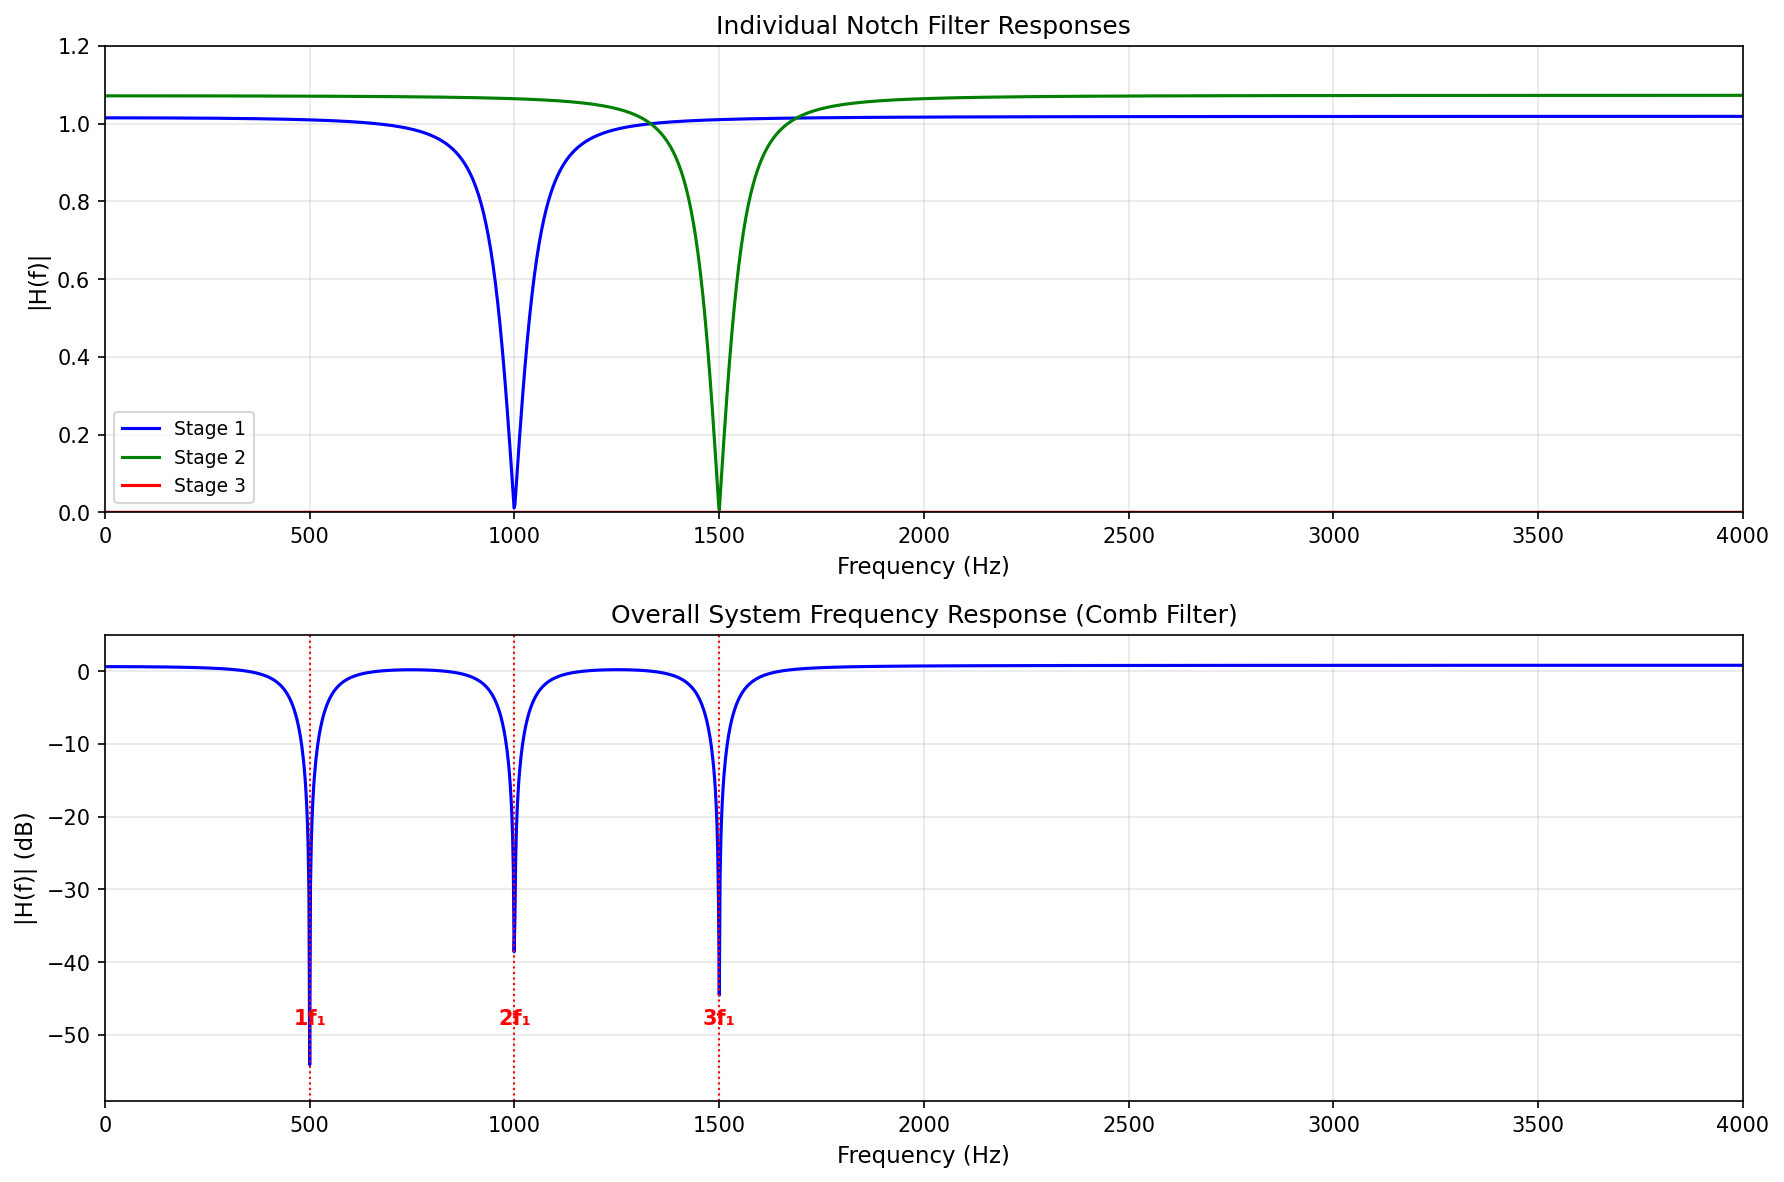
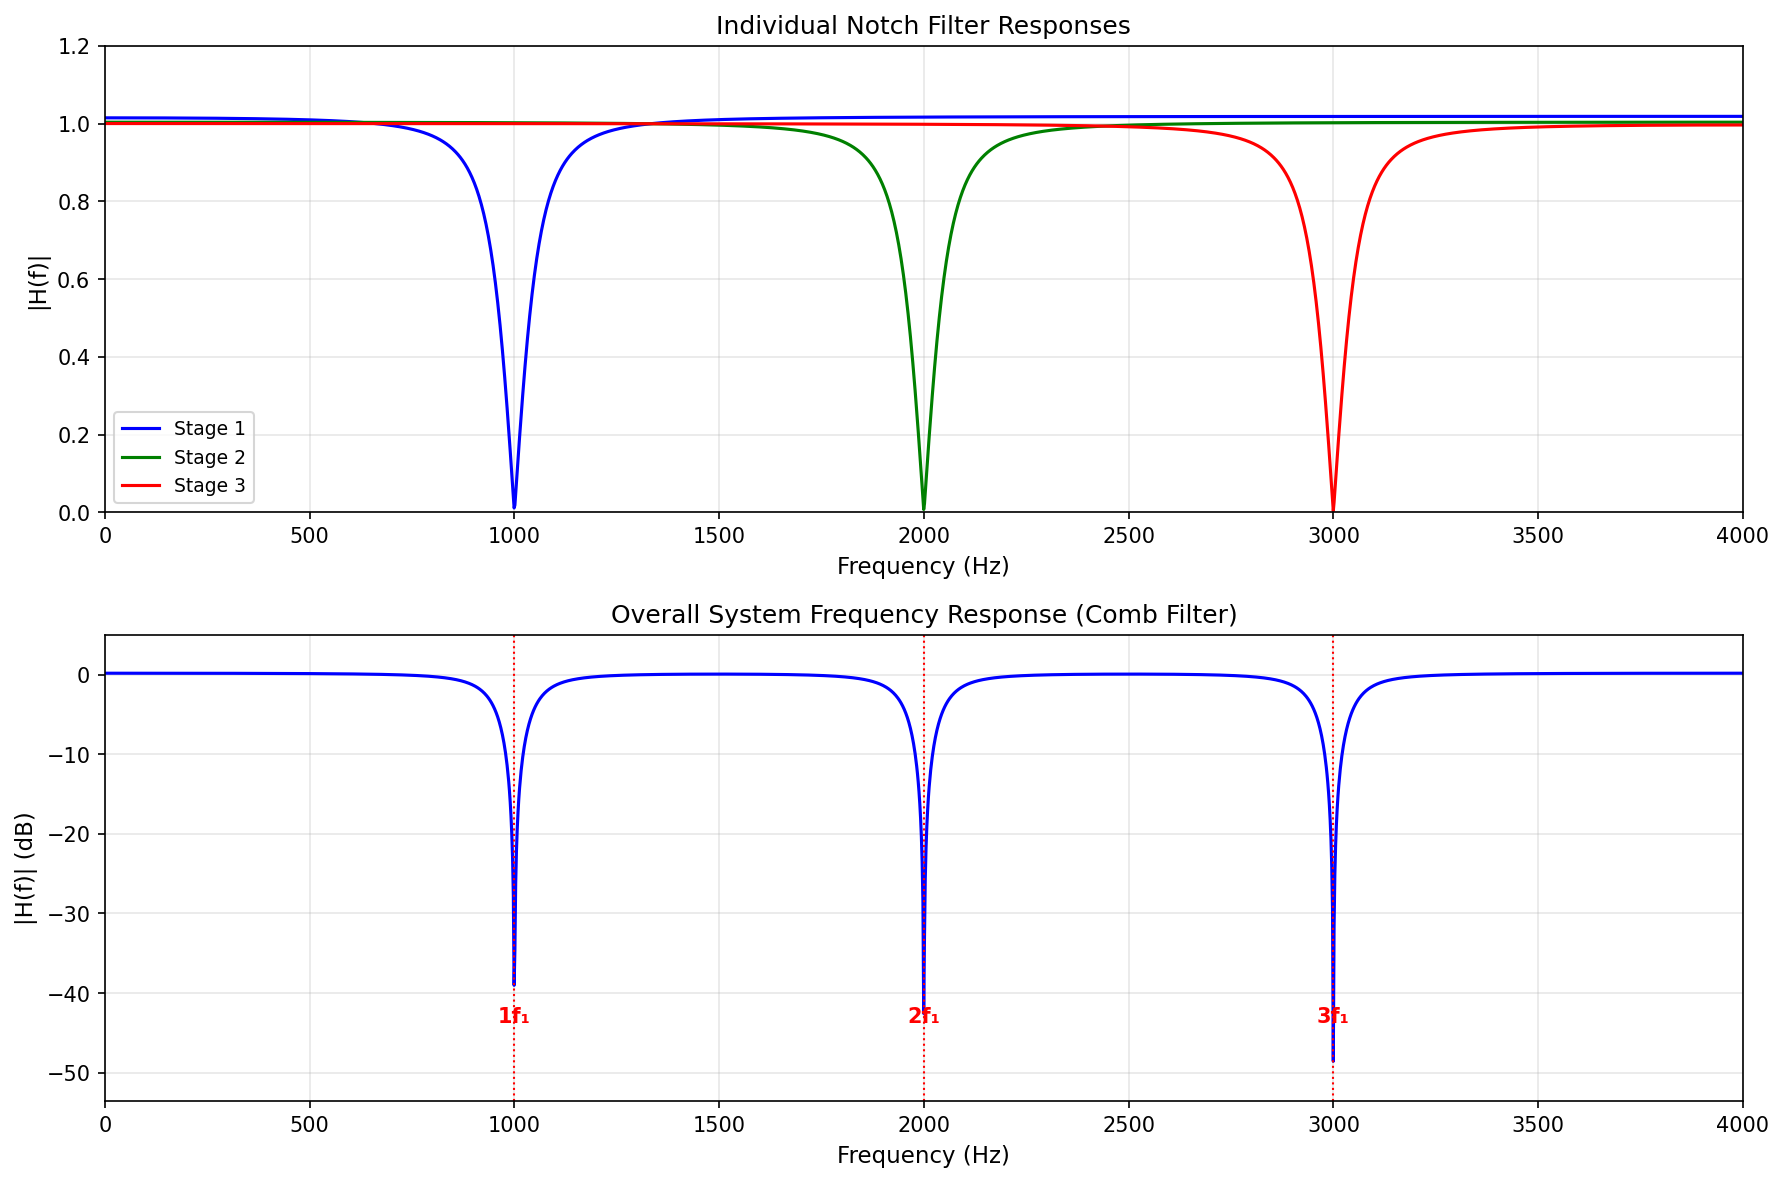
Fix frequency response plot bug
- Fixed H_stages indexing: Stage 0 is input (all ones), stages 1-3 are filter outputs
- Stage 3 was showing all zeros due to incorrect index assignment
- Regenerated frequency_response_plot.png with correct 1000 Hz fundamental frequency
- Harmonic markers now correctly show at 1000, 2000, 3000 Hz

diff --git a/python/src/frequency_estimation/filters/filter_bank.py b/python/src/frequency_estimation/filters/filter_bank.py
@@ -1,10 +1,3 @@
-"""
-Cascaded notch filter bank implementation.
-
-This module provides the CascadedFilterBank class for processing
-signals through multiple notch filter stages.
-"""
-
 import numpy as np
 from numpy.typing import NDArray
 from typing import Optional
@@ -13,31 +6,8 @@ from .notch_filter import NotchFilter
 
 
 class CascadedFilterBank:
-    """
-    Cascaded notch filter bank for harmonic signal processing.
-    
-    Processes signal through M cascaded IIR notch filters, each tuned
-    to reject the m-th harmonic (m = 1, 2, ..., M).
-    
-    Attributes:
-        num_stages: Number of filter stages M
-        pole_radius: Pole radius r for all filters
-        filters: List of NotchFilter instances
-        
-    Example:
-        >>> bank = CascadedFilterBank(num_stages=3, pole_radius=0.95)
-        >>> outputs = bank.process(signal, theta=0.785)
-        >>> final_output = outputs[-1, :]  # Output after all stages
-    """
     
     def __init__(self, num_stages: int, pole_radius: float = 0.95):
-        """
-        Initialize cascaded filter bank.
-        
-        Args:
-            num_stages: Number of notch filter stages M
-            pole_radius: Pole radius r (0 < r < 1)
-        """
         self.num_stages = num_stages
         self.pole_radius = pole_radius
         self.filters = [
@@ -51,18 +21,6 @@ class CascadedFilterBank:
         signal: NDArray[np.float64], 
         theta: float
     ) -> NDArray[np.float64]:
-        """
-        Process signal through all filter stages.
-        
-        Args:
-            signal: Input signal array
-            theta: Normalized frequency θ = 2πf₁/fs (radians)
-            
-        Returns:
-            Output matrix (num_stages+1 × num_samples):
-            - Row 0: input signal
-            - Row m: output after stage m (m = 1, ..., num_stages)
-        """
         num_samples = len(signal)
         outputs = np.zeros((self.num_stages + 1, num_samples))
         outputs[0, :] = signal
@@ -73,67 +31,18 @@ class CascadedFilterBank:
         self._last_outputs = outputs
         return outputs
     
-    @property
-    def last_outputs(self) -> Optional[NDArray[np.float64]]:
-        """Get outputs from the last process() call."""
-        return self._last_outputs
-    
-    @property
-    def final_output(self) -> Optional[NDArray[np.float64]]:
-        """Get final stage output from the last process() call."""
-        if self._last_outputs is not None:
-            return self._last_outputs[-1, :]
-        return None
-    
-    def compute_mse(
-        self, 
-        signal: NDArray[np.float64], 
-        theta: float
-    ) -> tuple[float, float]:
-        """
-        Compute Mean Squared Error of filter bank output.
-        
-        MSE = (1/N) Σ y_M(n)². When θ matches true frequency, MSE → 0.
-        
-        Args:
-            signal: Input signal array
-            theta: Normalized frequency (radians)
-            
-        Returns:
-            Tuple of (mse_total, mse_first):
-            - mse_total: MSE of final stage output
-            - mse_first: MSE of first stage output
-        """
-        outputs = self.process(signal, theta)
-        num_samples = outputs.shape[1]
-        
-        mse_total = np.sum(outputs[-1, :] ** 2) / num_samples
-        mse_first = np.sum(outputs[1, :] ** 2) / num_samples
-        
-        return mse_total, mse_first
-    
     def frequency_response(
         self, 
         theta: float, 
         omega: NDArray[np.float64],
         normalize: bool = True
     ) -> tuple[NDArray[np.complex128], NDArray[np.complex128]]:
-        """
-        Compute frequency response of filter bank.
-        
-        Args:
-            theta: Normalized frequency (radians)
-            omega: Frequency points for evaluation
-            normalize: Whether to normalize responses
-            
-        Returns:
-            Tuple of (H_total, H_stages):
-            - H_total: Overall cascade response
-            - H_stages: Individual stage responses (num_stages+1 × len(omega))
-        """
         num_freq_points = len(omega)
         H_stages = np.zeros((self.num_stages + 1, num_freq_points), dtype=complex)
         H_total = np.ones(num_freq_points, dtype=complex)
+        
+        # Stage 0 is the input (all ones)
+        H_stages[0, :] = 1.0
         
         ref_idx = num_freq_points // 3  # Reference point for normalization
         
@@ -143,13 +52,24 @@ class CascadedFilterBank:
             if normalize:
                 H = H / np.abs(H[ref_idx])
             
-            H_stages[i, :] = H
+            # Store at index i+1 since index 0 is input
+            H_stages[i + 1, :] = H
             H_total = H_total * H
         
         if normalize:
             H_total = H_total / np.abs(H_total[ref_idx])
         
         return H_total, H_stages
+    
+    @property
+    def last_outputs(self) -> Optional[NDArray[np.float64]]:
+        return self._last_outputs
+    
+    @property
+    def final_output(self) -> Optional[NDArray[np.float64]]:
+        if self._last_outputs is not None:
+            return self._last_outputs[-1, :]
+        return None
     
     def __repr__(self) -> str:
         return f"CascadedFilterBank(stages={self.num_stages}, r={self.pole_radius})"
